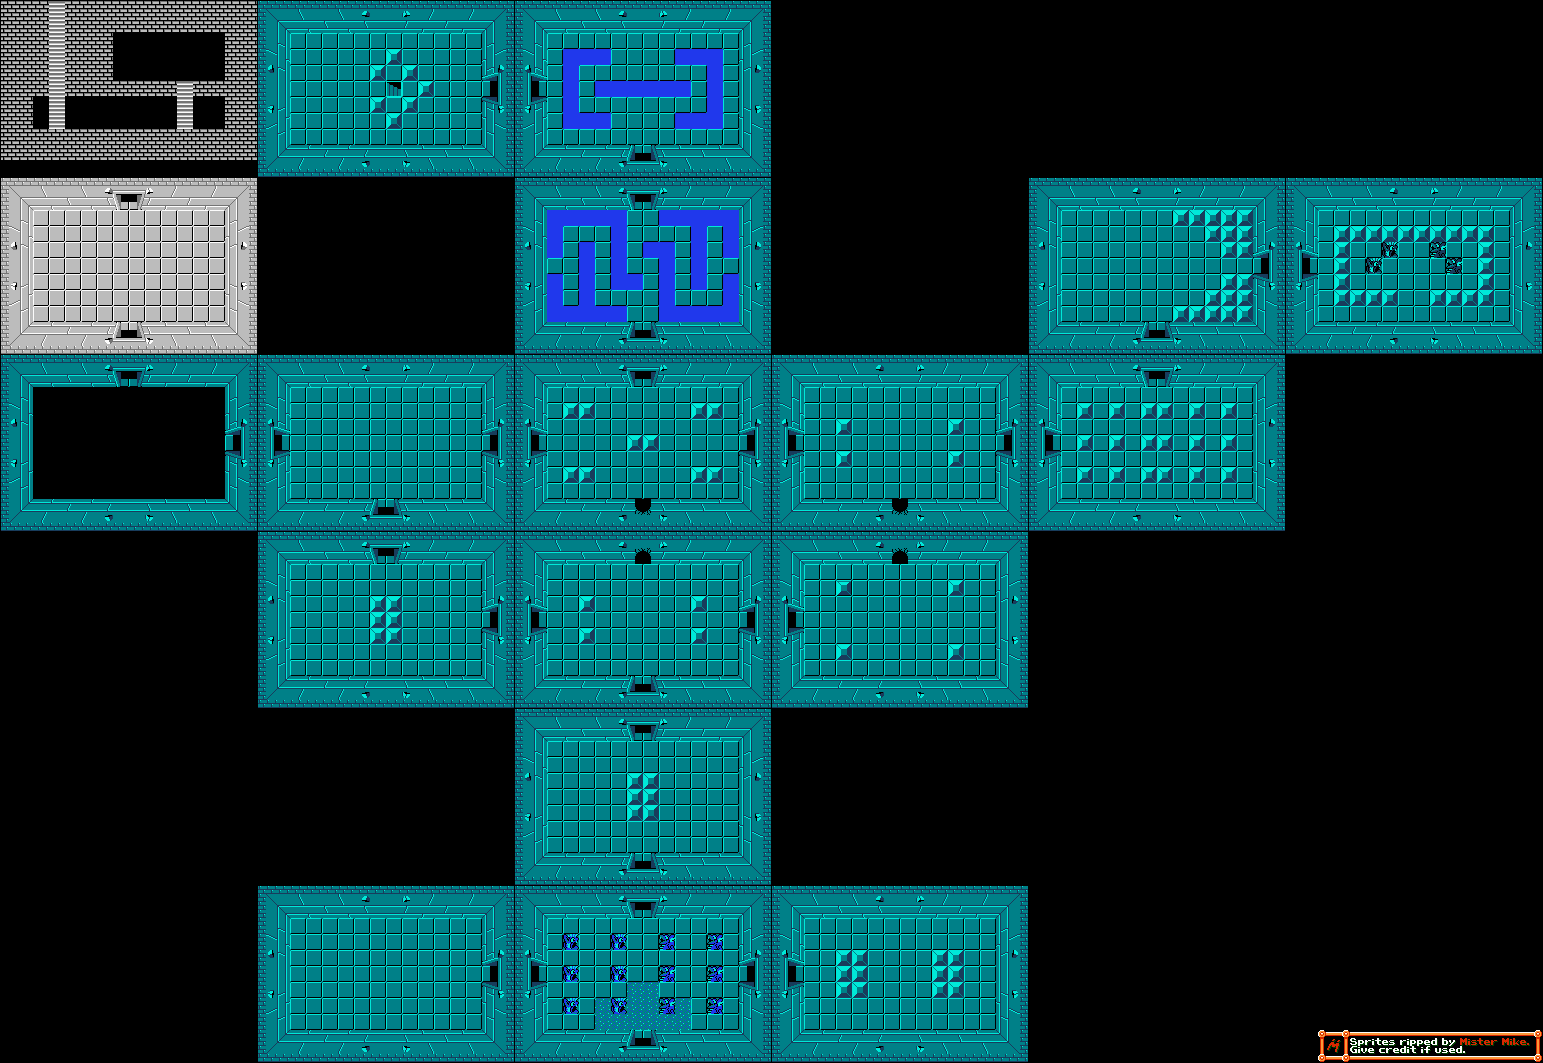
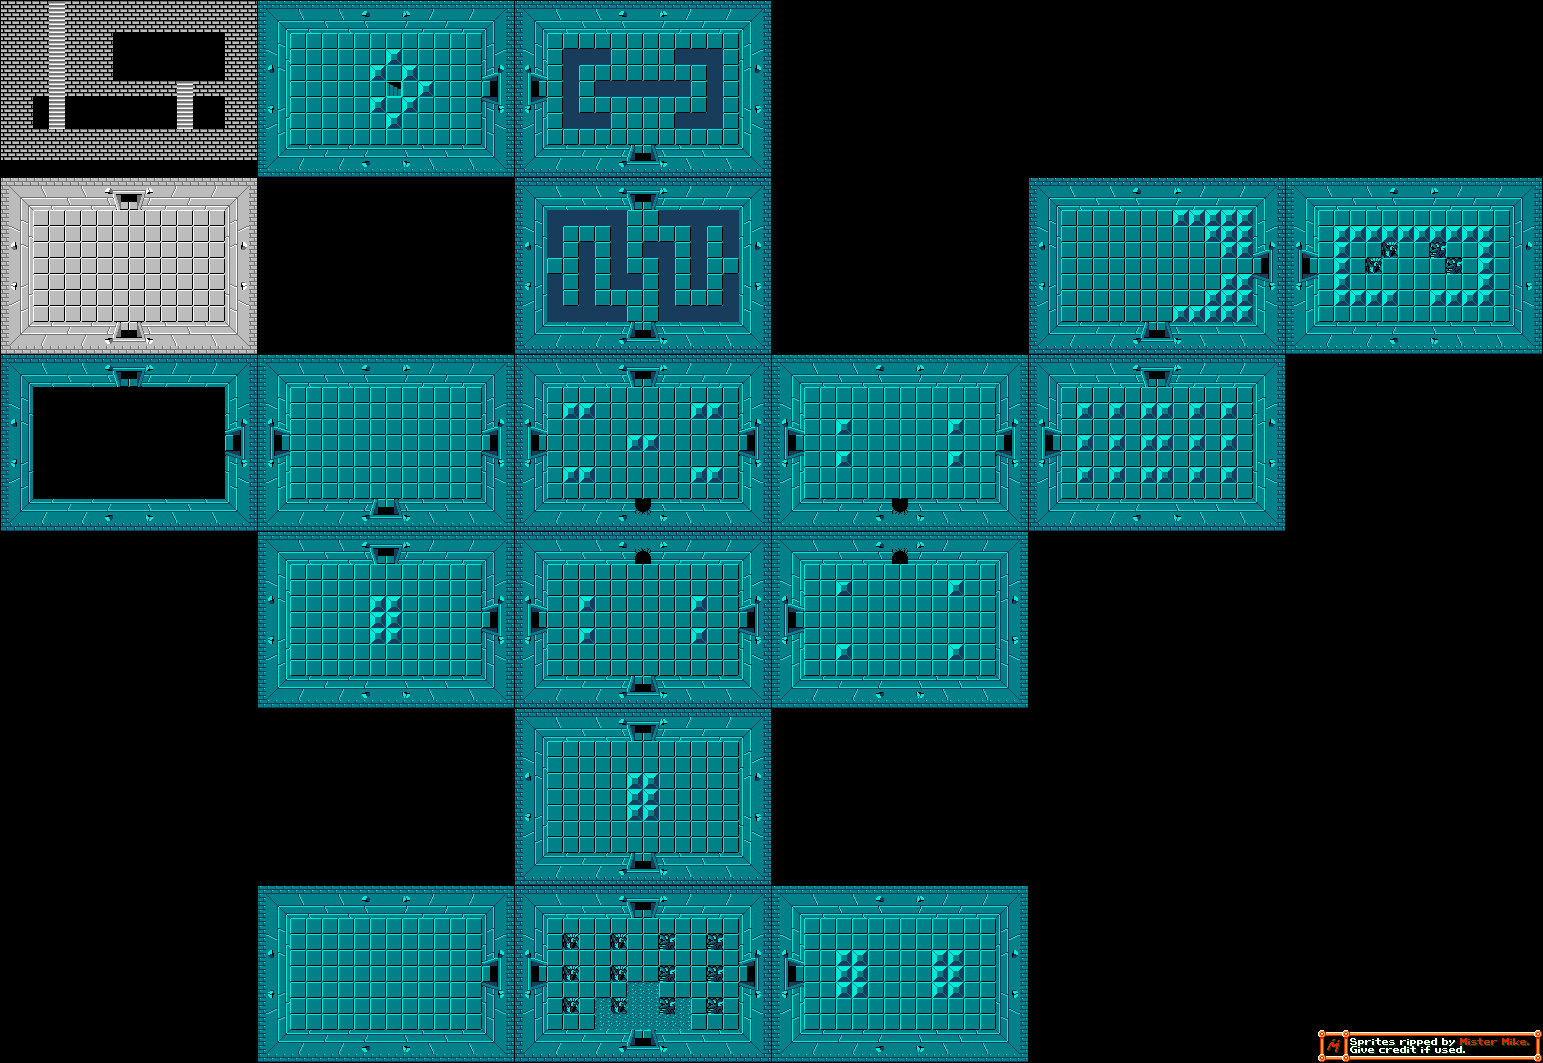
ROOM TRANSITIONS IN RUSH ROOMS WORK plus fixed backgrounds so that theres no green stripe and the blue blocks arent different shades of blue

Changed region(s): [[0.3422, 0.1863, 0.4977, 0.3104], [0.3422, 0.031, 0.4666, 0.1242], [0.4044, 0.9313, 0.4355, 0.9624]]

diff --git a/Rooms/RandomRoomGenerator.cs b/Rooms/RandomRoomGenerator.cs
@@ -83,10 +83,9 @@ namespace LegendofZelda.Rooms
                         sprites.Remove(leftBoundBlock);
                         sprites.Add(BlockSpriteFactory.Instance.CreateBlock(new Vector2(50, 264), "VerticalHalfBoundingBlock"));
                         sprites.Add(BlockSpriteFactory.Instance.CreateBlock(new Vector2(50, 44), "VerticalHalfBoundingBlock"));
+                        sprites.Add(BlockSpriteFactory.Instance.CreateBlock(new Vector2(0, 0), "OpenWhiteDoorBlockLeft"));
                         sprites.Add(BlockSpriteFactory.Instance.CreateBlock(new Vector2(0, 0), "OpenDoorBlockLeft"));
-                        sprites.Add(BlockSpriteFactory.Instance.CreateBlock(new Vector2(0, 0), "OpenDoorBlockLeft"));
-                       
-                       // sprites.Add(BlockSpriteFactory.Instance.CreateBlock(new Vector2(0, 0), "LockedWhiteDoorBlockLeft"));
+                      
                         break;
                     case "right":
                         sprites.Remove(rightBoundBlock);
@@ -94,7 +93,6 @@ namespace LegendofZelda.Rooms
                         sprites.Add(BlockSpriteFactory.Instance.CreateBlock(new Vector2(700, 44), "VerticalHalfBoundingBlock"));
                         sprites.Add(BlockSpriteFactory.Instance.CreateBlock(new Vector2(0, 0), "OpenWhiteDoorBlockRight"));
                         sprites.Add(BlockSpriteFactory.Instance.CreateBlock(new Vector2(0, 0), "OpenDoorBlockRight"));
-                       // sprites.Add(BlockSpriteFactory.Instance.CreateBlock(new Vector2(0, 0), "LockedWhiteDoorBlockRight"));
                         break;
                     case "top":
                         sprites.Remove(topBoundBlock);
@@ -102,7 +100,6 @@ namespace LegendofZelda.Rooms
                         sprites.Add(BlockSpriteFactory.Instance.CreateBlock(new Vector2(435, 44), "HorizontalHalfBoundingBlock"));
                         sprites.Add(BlockSpriteFactory.Instance.CreateBlock(new Vector2(0, 0), "OpenWhiteDoorBlockTop"));
                         sprites.Add(BlockSpriteFactory.Instance.CreateBlock(new Vector2(0, 0), "OpenDoorBlockTop"));
-                        //sprites.Add(BlockSpriteFactory.Instance.CreateBlock(new Vector2(0, 0), "LockedWhiteDoorBlockTop"));
                         break;
                     case "bottom":
                         sprites.Remove(bottomBoundBlock);
@@ -110,7 +107,6 @@ namespace LegendofZelda.Rooms
                         sprites.Add(BlockSpriteFactory.Instance.CreateBlock(new Vector2(435, 392), "HorizontalHalfBoundingBlock"));
                         sprites.Add(BlockSpriteFactory.Instance.CreateBlock(new Vector2(0, 0), "OpenWhiteDoorBlockBottom"));
                         sprites.Add(BlockSpriteFactory.Instance.CreateBlock(new Vector2(0, 0), "OpenDoorBlockBottom"));
-                        //sprites.Add(BlockSpriteFactory.Instance.CreateBlock(new Vector2(0, 0), "LockedWhiteDoorBlockBottom"));
                         break;
                 }
             }

diff --git a/Collision/LinkBlockHandler.cs b/Collision/LinkBlockHandler.cs
@@ -45,6 +45,9 @@ namespace Collision
                         var myGame = Link.Instance.game;
                         var command = new UpRoomCommand(myGame, myGame.roomsGraph, myGame.gameStateController);
                         command.Execute();
+                    }else if(block is OpenWhiteDoorBlock)
+                    {
+
                     }
                     else
                     {
@@ -66,7 +69,12 @@ namespace Collision
                         var myGame = Link.Instance.game;
                         var command = new DownRoomCommand(myGame, myGame.roomsGraph, myGame.gameStateController);
                         command.Execute();
-                    } else {
+                    }
+                    else if (block is OpenWhiteDoorBlock)
+                    {
+
+                    }
+                    else {
                         linkIdleWalk(side, collisionRect);
                     }
 
@@ -80,8 +88,11 @@ namespace Collision
                         var myGame = Link.Instance.game;
                         var command = new LeftRoomCommand(myGame, myGame.roomsGraph, myGame.gameStateController);
                         command.Execute();
-                    } 
-                    
+                    }
+                    else if (block is OpenWhiteDoorBlock)
+                    {
+
+                    }                 
                     else {
                         linkIdleWalk(side, collisionRect);
                     }
@@ -98,6 +109,10 @@ namespace Collision
                         var myGame = Link.Instance.game;
                         var command = new RightRoomCommand(myGame, myGame.roomsGraph, myGame.gameStateController);
                         command.Execute();
+                    }
+                    else if (block is OpenWhiteDoorBlock)
+                    {
+
                     }
                     else if (block is StairsBlock)
                     {

diff --git a/Blocks/Doors+Walls/OpenWhiteDoorBlock.cs b/Blocks/Doors+Walls/OpenWhiteDoorBlock.cs
@@ -16,7 +16,7 @@ namespace LegendofZelda.Blocks
 
         private Rectangle[] sourceRectangles = { 
             new Rectangle(70, 21, sourceWidth, sourceHeight), 
-            new Rectangle(70, 44, sourceHeight, sourceWidth), 
+            new Rectangle(80,44, sourceHeight, sourceWidth), 
             new Rectangle(70, 77, sourceHeight, sourceWidth), 
             new Rectangle(70, 110, sourceWidth, sourceHeight) };
         private Rectangle sourceRectangle;

diff --git a/SpriteFactories/BlockSpriteFactory.cs b/SpriteFactories/BlockSpriteFactory.cs
@@ -171,7 +171,7 @@ namespace LegendofZelda.SpriteFactories
 
                 case "OpenWhiteDoorBlockRight":
 
-                    return new OpenWhiteDoorBlock(whiteDoorSpriteSheet, 695, 200 + Common.Instance.heightOfInventory, 2);
+                    return new OpenWhiteDoorBlock(whiteDoorSpriteSheet, 700, 200 + Common.Instance.heightOfInventory, 2);
 
                 case "OpenWhiteDoorBlockBottom":
 

diff --git a/Rooms/Room.cs b/Rooms/Room.cs
@@ -87,7 +87,7 @@ namespace LegendofZelda
             sprites.Add(leftBoundBlock);
             foreach (var sprite in sprites.ToList())
             {
-                if (sprite is OpenDoorBlock || sprite is LockedDoorBlock)
+                if (sprite is OpenDoorBlock || sprite is OpenWhiteDoorBlock)
                 {
                     doors.Add(sprite);
                     sprites.Remove(sprite);
